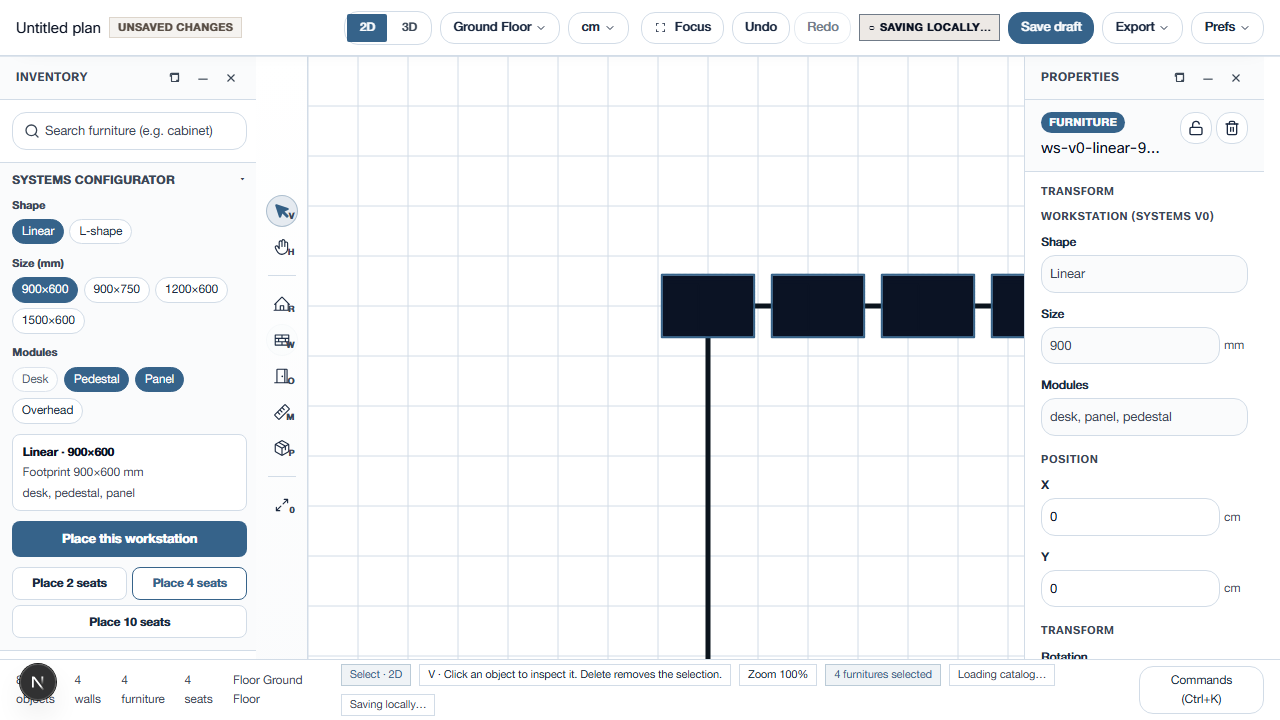
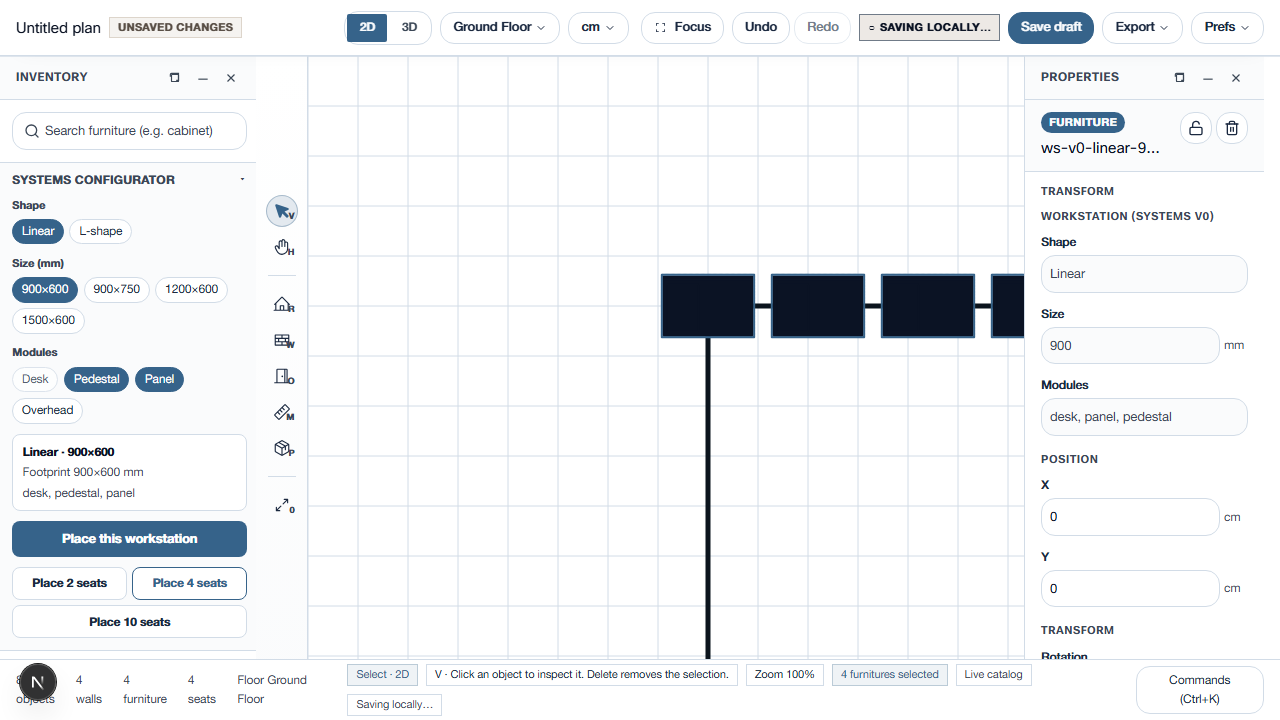
fix(p06): integrate 10-agent save honesty + W5 UUID re-proof
Map WorkspaceShell storage/cloudEnabled to TopBar saveStorage/saveCloudEnabled.
Land createAutoSaver dead double-gate delete. Refresh unit/browser evidence and
PHASE-SUMMARY for local-first CP-06 closeout (cloud Task 07 cancelled).

Changed region(s): [[0.0625, 0.9167, 0.8125, 1.0], [0.9062, 0.9167, 0.9688, 0.9778]]

diff --git a/site/features/planner/open3d/editor/WorkspaceShell.tsx b/site/features/planner/open3d/editor/WorkspaceShell.tsx
@@ -273,14 +273,13 @@ export function WorkspaceShell({
   // Prefer isLocalSaved; fall back to legacy isSynced. No label table — labels come from caller.
   const resolvedLocalSaved = isLocalSaved ?? isSynced;
 
-  // Save-status pass-through for TopBar (A3+). Spread keeps shell compiling if TopBar lags.
+  // Map shell names → TopBar contract (saveStorage / saveCloudEnabled).
   const topBarSaveStatusProps = {
-    isLocalSaved: resolvedLocalSaved,
     isSynced: resolvedLocalSaved,
     ...(saveStatus !== undefined ? { saveStatus } : {}),
     ...(saveStatusLabel !== undefined ? { saveStatusLabel } : {}),
-    ...(storage !== undefined ? { storage } : {}),
-    ...(cloudEnabled !== undefined ? { cloudEnabled } : {}),
+    ...(storage !== undefined ? { saveStorage: storage } : {}),
+    ...(cloudEnabled !== undefined ? { saveCloudEnabled: cloudEnabled } : {}),
   };
 
   return (

diff --git a/site/features/planner/persistence/persistence.ts b/site/features/planner/persistence/persistence.ts
@@ -354,7 +354,6 @@ export function createAutoSaver(
   const debounceMs = deps?.debounceMs ?? AUTO_SAVE_DEBOUNCE_MS;
 
   let timeoutId: ReturnType<typeof setTimeout> | null = null;
-  let lastSaved = 0;
   let active = true;
   /** Latest snapshot waiting for debounce / flush. */
   let pendingSnapshot: string | null = null;
@@ -392,7 +391,6 @@ export function createAutoSaver(
       });
       if (!active) return;
 
-      lastSaved = now;
       if (pendingSnapshot === snapshot) {
         pendingSnapshot = null;
       }
@@ -411,11 +409,6 @@ export function createAutoSaver(
       timeoutId = setTimeout(() => {
         timeoutId = null;
         if (!active || pendingSnapshot === null) return;
-        // Debounce window: skip if we just saved the same payload very recently.
-        const now = Date.now();
-        if (now - lastSaved < debounceMs && flushInFlight === null) {
-          // Still honor latest pending on next schedule; do not drop it forever.
-        }
         const toSave = pendingSnapshot;
         flushInFlight = persistSnapshot(toSave).finally(() => {
           flushInFlight = null;

diff --git a/results/planner/world-standard-wave/06-save-honesty/NOTES.md b/results/planner/world-standard-wave/06-save-honesty/NOTES.md
@@ -1,117 +1,46 @@
-# P06 Save Honesty — Evidence NOTES (live residual)
+# P06 save honesty — NOTES
+
+**Date:** 2026-07-10  
+**Authority:** `CODE-REVIEW-LIVE.md` (prior FAIL) → residual land + head re-proof  
+**Verdict:** **PASS local-first W5–W6** (see `PHASE-SUMMARY.md`)
+
+## Task 07 cloud wire — CANCELLED
 
 | Field | Value |
 |-------|--------|
-| **Phase** | P06 W5–W6 save honesty |
-| **Evidence root** | `results/planner/world-standard-wave/06-save-honesty/` |
-| **Date** | 2026-07-10 |
-| **HEAD (scaffold write)** | `9d2f56ca9cd63f33108bd5c06b82bf99077e76ea` |
-| **Agent** | P06-A8 (evidence scaffold + cloud cancel NOTES) |
-| **Approach** | **A — local-first honesty** |
-| **cloudEnabled** | **`false` (default)** |
+| **Decision** | **CANCEL** |
+| **Reason** | Approach A / open3d autosave is **IDB-only** (`cloudEnabled=false`) |
+| **Do not** | Half-wire “Saving to account…” while writes hit IndexedDB only |
+| **Unlock** | Owner must explicitly request account autosave (Approach B) |
 
----
+## Workstreams A1–A10
 
-## CP-06 status — DO NOT CLAIM PASS
+| Agent | Slice | Status |
+|------:|-------|--------|
+| A1 | Help honesty | done |
+| A2 | projectRef hook | done |
+| A3 | TopBar labels + testids | done |
+| A4 | WorkspaceShell pass-through | done (+ head prop map) |
+| A5 | OOPlanner wire + toast | done |
+| A6 | Double-gate cleanup | done |
+| A7 | W5 UUID e2e | done |
+| A8 | Evidence scaffold + cancel | done |
+| A9 | Labels vitest log | done |
+| A10 | Autosave vitest log | done |
 
-**Verdict: NOT PASS / residual open.**
+## Re-prove commands
 
-This pack is hygiene + status only. Presence of folders, unit logs, or partial chrome strings is **not** CP-06 green.
+```powershell
+cd D:\OandO07072026\site
+pnpm exec vitest run tests/unit/planner-autosave.test.ts tests/unit/features/planner/open3d/workspaceStatusLabels.test.ts tests/unit/features/planner/open3d/useOpen3dWorkspaceAutosave.test.tsx tests/unit/features/planner/open3d/TopBar.saveStatus.test.tsx tests/unit/features/planner/help/helpSections.test.ts
+# 55 passed
 
-Live gate review (authoritative residual list):
+$env:PLAYWRIGHT_BASE_URL = "http://localhost:3000"
+pnpm exec playwright test -c config/build/playwright.config.ts tests/e2e/open3d-save-honesty.spec.ts
+# 1 passed
+```
 
-- **`CODE-REVIEW-LIVE.md`** (same directory) — agent #1 re-proof; overall ~3.5/10 FAIL
+## Artifacts
 
-Plan / execute:
-
-- `plans1/P06-save-honesty/IMPLEMENTATION-PLAN.md`
-- `plans1/P06-save-honesty/CODE-REVIEW-REPORT.md`
-- `plans1/START-HERE.md` (kill order; Task 07 cancel rule)
-- `plans1/CHECKLIST-MASTER.md` § P06
-
----
-
-## Task 07 — Cloud wire: **CANCELLED**
-
-| Item | Decision |
-|------|----------|
-| **Task 07 cloud autosave wire** | **CANCELLED** |
-| **Reason** | `cloudEnabled=false`; **Approach A local-first** — open3d autosave stays browser IDB (`createAutoSaver` / `saveProject`) |
-| **Not doing** | No half-wire of account autosave; no `memberPlanRepository` / `guestPromotion` as autosave path; no “Saving to account…” chrome while writes are local-only |
-| **Unlock** | Only if **owner explicitly** unlocks Approach B / dual local+cloud in this phase |
-
-Binding sources: `plans1/START-HERE.md` stricter rule #7; `CODE-REVIEW-LIVE.md` § Stop rules; plan Task 07 default cancel.
-
----
-
-## Live residual status (honest)
-
-### Landed (do not rebuild)
-
-- Local IDB flush spine: `createAutoSaver` flush + `pendingSnapshot`, pagehide / unmount flush-before-cancel, explicit Save → `flushPersist`
-- Partial W6 wording: “Saved locally” / “Saving … locally…” on some surfaces
-- Unit continuity / session UUID envelope suites exist (see baseline JSON)
-- Evidence **folder shell** under this path (this NOTES + scaffold)
-
-### Still open (blocks CP-06)
-
-| Residual | Why still red |
-|----------|----------------|
-| **W5 UUID hard-reload E2E** | Spec is furniture **count**-only; need wall + furniture **UUID** equality after hard reload |
-| **`save-reload/` browser artifacts** | Directory exists; **no PNGs / no browser-run JSON** yet (see `save-reload/README.md`) |
-| **Help / FAQ honesty** | `05-copy-grep.txt` shows **“named save slots” absent** and local-first copy present (parallel help work) — **do not treat as full W6** until dual surface + testids + toast + CP checklist closed |
-| **Single label table + testids** | Labels unit residual run green (`02-labels-*`); dual chrome / `open3d-save-status` testids / toast may still be residual — re-prove vs product, not log alone |
-| **projectRef + leave-latest envelope** | Flush/schedule must read latest project under thrash (not stale render closure) |
-| **Write-proof / dual-surface / toast** | Residual product + units per `CODE-REVIEW-LIVE.md` TDD order |
-| **Help unit suite** | **green-when-ready** in baseline JSON — copy grep ≠ full unit gate unless suite path is landed and green |
-
-**Unit PASS ≠ W5 browser ≠ CP-06.** Continuity / autosave / labels units do not substitute for hard-reload id proof + help clean + dual-surface contract.
-
----
-
-## Agent workstreams A1–A7
-
-Point of truth for ordered residual slices: **`CODE-REVIEW-LIVE.md`** § “Residual list ordered for TDD”.
-
-| Agent / stream | Slice (plan task) | Focus |
-|----------------|-------------------|--------|
-| **A1** | Task 00 scaffold ops (shared with A8 hygiene) | Pack dirs, NOTES, baseline JSON — **no product claim** |
-| **A2** | Task 01 AutoSaver write-proof | `planner-autosave` mock write / flush / cancel / no silent drop |
-| **A3** | Task 02 single label table | `workspaceStatusLabels` + forbidden bare Saved / cloud when `cloudEnabled=false` |
-| **A4** | Task 03 hook `projectRef` | `useOpen3dWorkspaceAutosave` latest envelope; export storage/cloud/isLocalSaved; visibility listener cleanup |
-| **A5** | Task 04 dual surface + testids + toast | TopBar + status bar same helper; success toast after flush ack |
-| **A6** | Task 05 help honesty | `helpSections` rewrite + unit/grep artifact when ready |
-| **A7** | Task 06 W5 UUID E2E + `save-reload/` PNGs | Hard reload UUID equality; browser-run under `save-reload/` |
-
-| Stream | Slice | Focus |
-|--------|-------|--------|
-| **A8 (this file)** | Task 00 hygiene + **Task 07 cancel** | NOTES / baseline / `save-reload` pointer only; **no site/ edits**; **no fake PNGs** |
-| **A10 (observed log)** | Residual unit re-run | `01-autosave-flush-run.json` / vitest logs — unit evidence only |
-
-Do not treat parallel A* work as CP-06 closeout until W5 browser + W6 honesty checklist items are path-backed under this folder.
-
----
-
-## Pack inventory (this machine)
-
-| Path | Role | Status |
-|------|------|--------|
-| `NOTES.md` | This file — residual + cancel | Live |
-| `CODE-REVIEW-LIVE.md` | Full residual / stop rules | Live FAIL review |
-| `00-baseline-run.json` | Suites that **should** be green | Scaffold (honest expected list) |
-| `01-autosave-flush-run.json` + `01-autosave-flush-vitest.log` | planner-autosave residual run | Present (unit only; A10 observed) |
-| `02-labels-run.json` + `02-labels-vitest.log` | workspaceStatusLabels residual run | Present (unit only; 20 tests noted green) |
-| `03-session-uuid-vitest.log` | open3dSession UUID envelope | Present (unit only) |
-| `05-copy-grep.txt` | Help/copy forbidden-phrase grep | Present — help phrase fix evidence; not CP-06 |
-| `save-reload/` | W5 browser artifacts | **Empty of PNGs** — pointer only: `save-reload/README.md` |
-| `00-baseline-vitest.log` | Optional combined baseline tee | May be absent until Task 00 step 3 re-run |
-
----
-
-## Claim rules
-
-1. **Do not claim CP-06 PASS** from this scaffold.
-2. **Do not claim W5** without UUID hard-reload proof + `save-reload/` screenshots / run JSON.
-3. **Do not claim W6 complete** while help still sells account slots or dual surfaces drift.
-4. **Task 07 remains CANCELLED** unless owner unlocks cloud.
-5. Evidence only under repo-root `results/` — never `site/results/`.
+- Units: `01-autosave-flush-*`, `02-labels-*`, `03-session-uuid-*`, `05-copy-grep.txt`
+- Browser: `save-reload/01-before-save.png` … `03-after-hard-reload.png`, `06-browser-run.json`

diff --git a/results/planner/world-standard-wave/06-save-honesty/PHASE-SUMMARY.md b/results/planner/world-standard-wave/06-save-honesty/PHASE-SUMMARY.md
@@ -1,0 +1,76 @@
+# P06 / CP-06 — Save Honesty — PHASE SUMMARY
+
+| Field | Value |
+|-------|--------|
+| **Date** | 2026-07-10 |
+| **Prior review** | `CODE-REVIEW-LIVE.md` FAIL (~3.5/10) |
+| **Verdict** | **PASS (local-first W5–W6 residual closeout)** |
+| **Cloud** | Task 07 **CANCELLED** (`cloudEnabled=false`) — see NOTES.md |
+| **Agents** | 10 parallel (A1–A10) + head integration fix |
+
+## Gates
+
+| Gate | Result | Evidence |
+|------|--------|----------|
+| **W5 UUID hard reload** | **pass** | `save-reload/06-browser-run.json` — wall + furniture UUID set equality |
+| **W6 local labels** | **pass** | single `open3dSaveStatusLabel`; TopBar + status bar; `data-testid="open3d-save-status"` |
+| **Help honesty** | **pass** | no “named save slots”; `05-copy-grep.txt` |
+| **Autosave write-proof** | **pass** | `planner-autosave` 10/10; dead double-gate deleted |
+| **projectRef + leave flush** | **pass** | hook unit 10/10; visibility listener cleanup |
+| **Cloud wire** | **cancelled** | Approach A — IDB only |
+
+## Units re-proved (head)
+
+```
+pnpm exec vitest run \
+  tests/unit/planner-autosave.test.ts \
+  tests/unit/features/planner/open3d/workspaceStatusLabels.test.ts \
+  tests/unit/features/planner/open3d/useOpen3dWorkspaceAutosave.test.tsx \
+  tests/unit/features/planner/open3d/TopBar.saveStatus.test.tsx \
+  tests/unit/features/planner/help/helpSections.test.ts
+# → 5 files, 55 tests passed
+```
+
+## Browser re-proved (head)
+
+```
+PLAYWRIGHT_BASE_URL=http://localhost:3000
+pnpm exec playwright test -c config/build/playwright.config.ts tests/e2e/open3d-save-honesty.spec.ts
+# → 1 passed (~7–8s)
+```
+
+## Agent map
+
+| ID | Slice | Outcome |
+|----|-------|---------|
+| A1 | Help honesty | green + 05-copy-grep |
+| A2 | projectRef + visibility cleanup | green 10/10 |
+| A3 | TopBar single label table + testids | green 7/7 |
+| A4 | WorkspaceShell pass-through | landed (prop names fixed by head) |
+| A5 | OOPlanner dual wire + Save toast | landed |
+| A6 | persistence dead double-gate delete | green + uncommitted→landed |
+| A7 | W5 UUID e2e | green + PNGs + 06-browser-run.json |
+| A8 | NOTES + Task 07 cancel | honest scaffold |
+| A9 | labels vitest evidence | 20/20 |
+| A10 | autosave vitest evidence | 10/10 |
+
+## Head integration
+
+WorkspaceShell forwarded `storage` / `cloudEnabled`; TopBar expects `saveStorage` / `saveCloudEnabled`. Mapped in shell so dual-surface attributes stick.
+
+## Non-claims
+
+- Not cloud account autosave
+- Not fabric `PlannerSaveIndicator` mount
+- Not W3/W4/W7/W8
+- Sighted Save toast is `workspaceMessage` aria-live (sr-only pattern); not a floating toast library
+
+## Key paths
+
+| Kind | Path |
+|------|------|
+| E2E | `site/tests/e2e/open3d-save-honesty.spec.ts` |
+| Hook | `site/features/planner/open3d/persistence/useOpen3dWorkspaceAutosave.ts` |
+| Labels | `site/features/planner/open3d/editor/workspaceStatusLabels.ts` |
+| Evidence | `results/planner/world-standard-wave/06-save-honesty/` |
+| W5 pack | `…/save-reload/` |